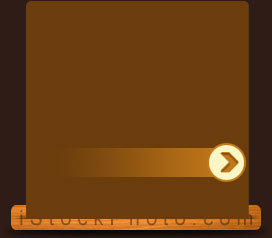
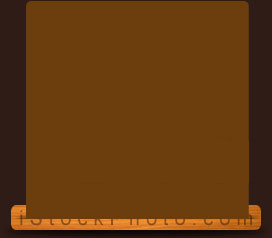
Bottom section buttons done

Changed region(s): [[0.4118, 0.5882, 0.9118, 0.7647]]

diff --git a/css/style.css b/css/style.css
@@ -265,22 +265,22 @@ html {
 	
 		.box p {
 			color: #c27819;
-			margin: 16px 0 20px;
+			margin-top: 16px;
 			padding: 0 21px 0 52px;
 		}
 	
 			.box p#button {
-				display: block;
-				width: 222px;
-				height: 40px;
-				padding-left: 83px;
-				margin-top: 20px;
+				background: transparent url("../img/footerButton-bg.jpg") no-repeat scroll 26px 0;
+				height: 39px;
 			}
 	
 				.box p#button a {
 					color: #2f1c16;
 					text-transform: uppercase;
 					text-decoration: none;
+					display: block;
+					height: 39px;
+					padding: 10px 0 0 46px;
 				}
 	
 		.box span {
